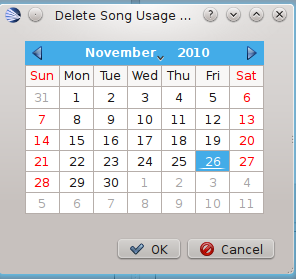
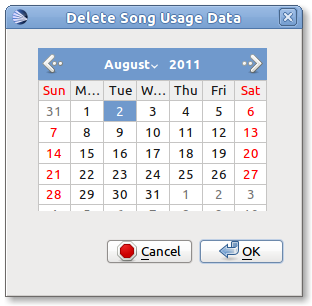
song usage tracking

diff --git a/manual/source/song_usage.rst b/manual/source/song_usage.rst
@@ -1,0 +1,79 @@
+.. _song_usage:
+
+Song Usage Tracking
+===================
+
+OpenLP gives you the ability to track the songs you use in the 
+:ref:`creating_service`. Every time a song is displayed from the 
+:ref:`creating_service` it will be logged. This is useful for CCLI or any other
+church copyright license that may require tracking or for your own personal use 
+to know what songs you previously used. 
+
+Song Usage Tracking is listed under the menu item 
+:menuselection:`Tools --> Song Usage Tracking`
+
+.. image:: pics/songusage.png
+
+You can start and stop tracking by using your keyboard :kbd:`F4` key, going to 
+:menuselection:`Tools --> Song Usage Tracking --> Toggle Tracking` or by using
+one of these buttons below :ref:`creating_service`.
+
+|song_active| Song usage tracking is active.
+
+|song_inactive| Song usage tracking is inactive.
+
+**Extract Tracking Data** 
+
+Now that you have tracked the songs that were displayed you will want to access 
+the information. Go to 
+:menuselection:`Tools --> Song Usage Tracking --> Extract Tracking Data` and you 
+will be presented with dual calendars.
+
+.. image:: pics/songusagereport.png
+
+**Select Date Range**
+
+The calendars on the left side and right side are what you use to select the 
+beginning and end dates of your tracking information. Select the date you want 
+to begin your tracking information on the left and end your tracking information 
+on the right. Use the left and right arrows or click on the month or year and 
+then select the day. 
+
+**Report Location**
+
+|file_open| Use this button to choose the folder you want to save your tracking
+file in. Click :guilabel:`OK` and click :guilabel:`OK` again or 
+:guilabel:`Cancel` at any time. This saves your tracking log as \usage_detail_"start_date"_"end_date".txt. You can open this file in any text 
+viewer or your spread sheet application.
+
+**Delete Extracted Data**
+
+When you do not need your previously saved data past a certain point in time, 
+you can delete it. Go to
+:menuselection:`Tools --> Song Usage Tracking --> Delete Tracking Data`  
+
+.. image:: pics/songusagedelete.png
+
+You will be presented with a single calendar. Select a date by using the left 
+and right arrows or click on the month or year and then select the day. All 
+tracking information prior to the date you selected will be deleted. Click 
+:guilabel:`OK` to delete or :guilabel:`Cancel` if you change your mind.
+
+**Tip**
+
+Every time you display a song, whether for practice or during a service, it will
+be logged if tracking is on. This could create a lot of duplicate songs being 
+logged. Toggle the tracking on and off, as needed, at the bottom right under 
+:ref:`themes` using these buttons.
+
+|song_active| Song usage tracking is active.
+
+|song_inactive| Song usage tracking is inactive.
+
+.. These are all the image templates that are used in this page.
+
+.. |SONG_ACTIVE| image:: pics/song_usage_active.png
+
+.. |SONG_INACTIVE| image:: pics/song_usage_inactive.png
+
+.. |FILE_OPEN| image:: pics/service_open.png

diff --git a/manual/source/index.rst b/manual/source/index.rst
@@ -12,8 +12,7 @@ Getting Started With OpenLP
    install_windows_mac
    install_linux
    install_bsd
-   creating_service
-
+   
 Reference Manual
 ----------------
 
@@ -24,6 +23,7 @@ Reference Manual
    configure
    dualmonitors
    mediamanager
+   creating_service
    print_service
    plugin_list
    display_tags
@@ -32,6 +32,7 @@ Reference Manual
    songs
    bibles
    custom_slides
+   song_usage
    alert
    glossary
 

diff --git a/manual/source/creating_service.rst b/manual/source/creating_service.rst
@@ -1,6 +1,9 @@
 .. _creating_service:
 
-==================
+===============
+Service Manager
+===============
+
 Creating a Service
 ==================
 
